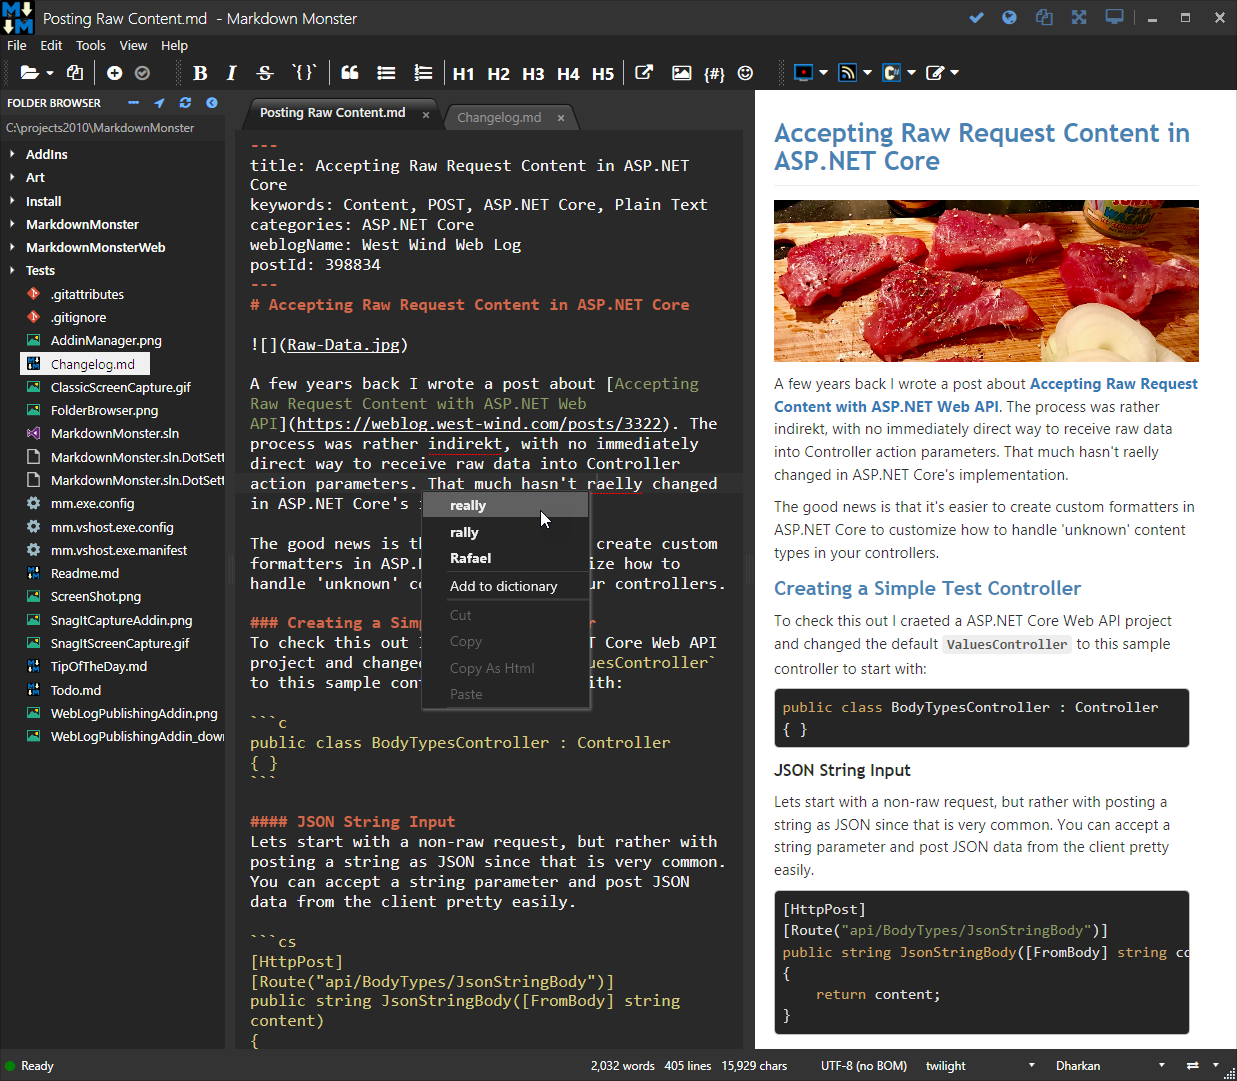
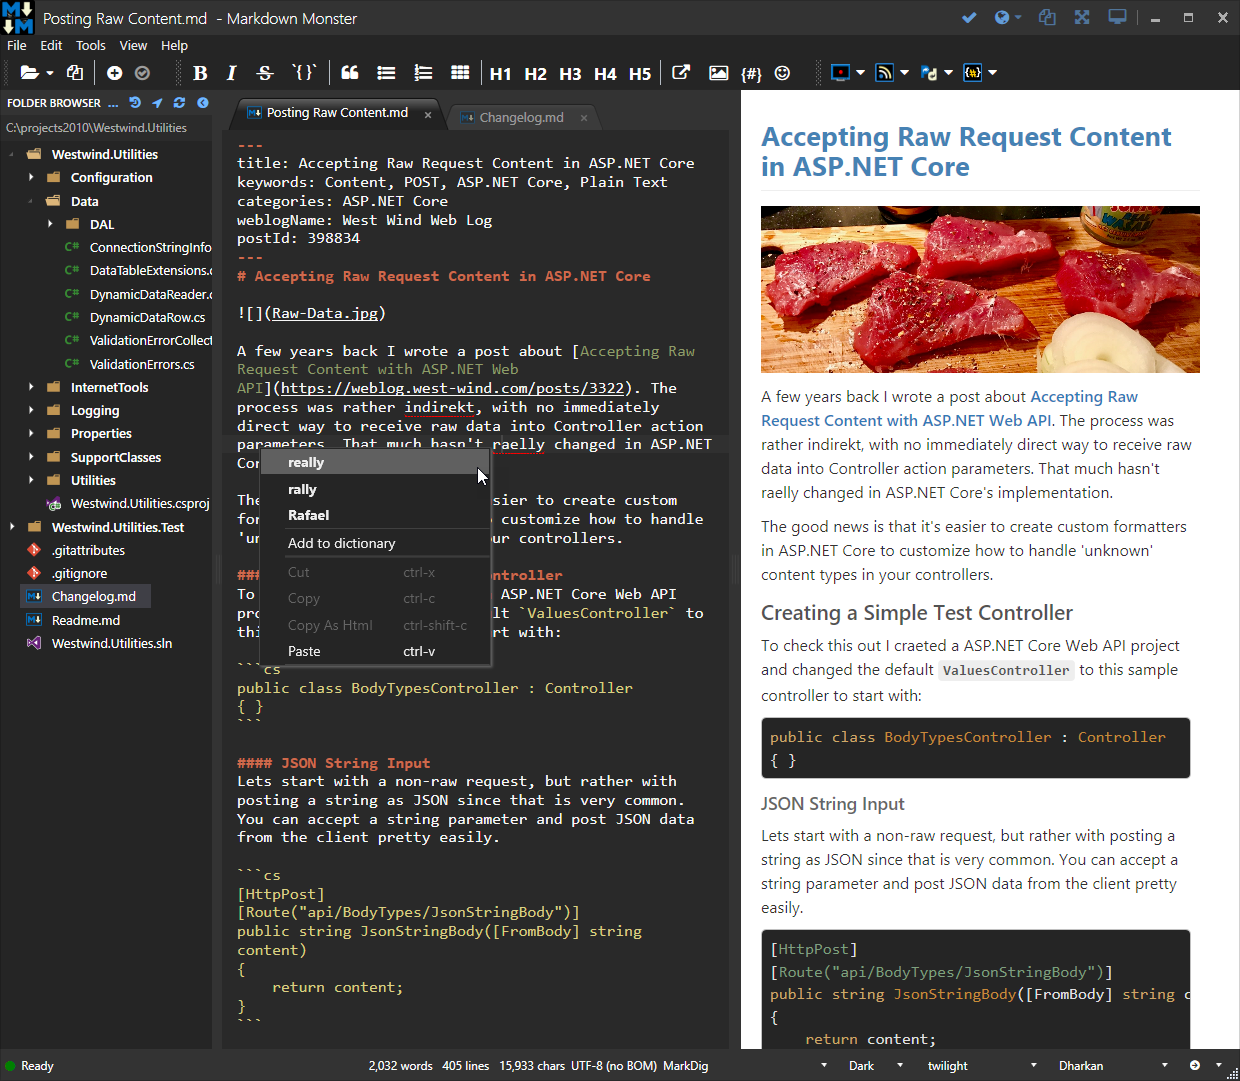
Fix tab styling. Fix Untitled document tab preview Fix extra lines in Editor context menu

Changed region(s): [[0.0, 0.0611, 0.983, 1.0], [0.0614, 0.0, 0.2765, 0.0611], [0.768, 0.0, 0.8294, 0.0305]]

diff --git a/MarkdownMonster/Styles/DragablzGeneric.xaml b/MarkdownMonster/Styles/DragablzGeneric.xaml
@@ -1111,7 +1111,11 @@
                                     <ColumnDefinition Width="Auto" />
                                 </Grid.ColumnDefinitions>
                                 <ContentPresenter Content="{TemplateBinding ContentControl.Content}" 
-                                                  ContentTemplate="{TemplateBinding ContentControl.ContentTemplate}" ContentStringFormat="{TemplateBinding ContentControl.ContentStringFormat}" HorizontalAlignment="{TemplateBinding Control.HorizontalContentAlignment}" VerticalAlignment="{TemplateBinding Control.VerticalContentAlignment}" SnapsToDevicePixels="{TemplateBinding UIElement.SnapsToDevicePixels}"                                                  
+                                                  ContentTemplate="{TemplateBinding ContentControl.ContentTemplate}" 
+                                                  ContentStringFormat="{TemplateBinding ContentControl.ContentStringFormat}" 
+                                                  HorizontalAlignment="{TemplateBinding Control.HorizontalContentAlignment}" 
+                                                  VerticalAlignment="{TemplateBinding Control.VerticalContentAlignment}" 
+                                                  SnapsToDevicePixels="{TemplateBinding UIElement.SnapsToDevicePixels}"                                                  
                                                   Margin="{TemplateBinding Control.Padding}"
                                                   x:Name="contentPresenter" />
                                 <Thumb Grid.Column="0" HorizontalAlignment="Stretch" VerticalContentAlignment="Stretch" 
@@ -1148,6 +1152,9 @@
                              <Setter Property="Padding" Value="5,2,10,8"/>
                             <Setter Property="Margin" Value="0 0 0 0"/>
                             <Setter Property="LongBasePenBrush" Value="{StaticResource TabItem.Selected.Background}" TargetName="Trapezoid"/>
+                        </Trigger>
+                        <Trigger Property="IsSelected" Value="False">
+                            <Setter Property="Opacity" Value="0.5" />
                         </Trigger>
                     </ControlTemplate.Triggers>
                 </ControlTemplate>

diff --git a/MarkdownMonster/Styles/DragablzGenericLight.xaml b/MarkdownMonster/Styles/DragablzGenericLight.xaml
@@ -301,6 +301,7 @@
                             <Setter Property="BorderBrush" TargetName="border" Value="{StaticResource Button.Disabled.Border}"/>
                             <Setter Property="TextElement.Foreground" TargetName="contentPresenter" Value="{StaticResource Button.Disabled.Foreground}"/>
                         </Trigger>
+                        
                     </ControlTemplate.Triggers>
                 </ControlTemplate>
             </Setter.Value>
@@ -1146,6 +1147,9 @@
                             <Setter Property="Padding" Value="5,4,10,5"/>
                             <Setter Property="Margin" Value="0 0 0 0"/>
                             <Setter Property="LongBasePenBrush" Value="{StaticResource TabItem.Selected.Background}" TargetName="Trapezoid"/>
+                        </Trigger>
+                        <Trigger Property="IsSelected" Value="False">
+                            <Setter Property="Opacity" Value="0.6" />
                         </Trigger>
                     </ControlTemplate.Triggers>
                 </ControlTemplate>

diff --git a/MarkdownMonster/_Classes/Utilities/AssociatedIcons.cs b/MarkdownMonster/_Classes/Utilities/AssociatedIcons.cs
@@ -48,7 +48,7 @@ namespace MarkdownMonster.Utilities
 
             if (Icons.TryGetValue(justFile.ToLower(), out ImageSource icon))
                 return icon;
-            if (IconUtilities.ExtensionToImageMappings.TryGetValue(justFile, out string imageKey))
+            if (IconUtilities.ExtensionToImageMappings.TryGetValue(justFile.ToLower(), out string imageKey))
                 key = justFile.ToLower();
             else
             {
@@ -120,6 +120,7 @@ namespace MarkdownMonster.Utilities
             { "favicon.ico", "favicon" },
             { "folder.folder", "folder" }, // special case
             { "folder.openfolder", "folder-open" }, // special case
+            { "untitled","md" },
             
             // dev config files
             { "license","license" },
@@ -130,6 +131,7 @@ namespace MarkdownMonster.Utilities
             { ".editorconfig", "editorconfig" },
 
             // Common
+            
             { ".md", "md" },
             { ".markdown", "md" },
             { ".mdcrypt", "md" },
@@ -254,7 +256,7 @@ namespace MarkdownMonster.Utilities
             { ".bat", "bat" },
             { ".cmd", "bat" },
             { ".sh", "bat" },
-            { ".zip", ".zip" }
+            { ".zip", "zip" }
 
         };
     }

diff --git a/MarkdownMonster/MainWindow.xaml.cs b/MarkdownMonster/MainWindow.xaml.cs
@@ -979,18 +979,15 @@ namespace MarkdownMonster
 			    var img = new Image()
 			    {
 			        Source = FolderStructure.icons.GetIconFromFile(document.Filename),
-                    Height=15,
-                    Margin = new Thickness(0,0,5,0)
+                    Height=16,
+                    Margin = new Thickness(0,1,5,0)
 
 			    };
 			    img.SetValue(Grid.ColumnProperty, 0);
 			    grid.Children.Add(img);
 
 
-			    var textBlock = new TextBlock()
-			    {
-			        Height = 17,
-			    };
+			    var textBlock = new TextBlock();
 			    textBlock.SetValue(Grid.ColumnProperty, 1);
 
                 var headerBinding = new Binding

diff --git a/MarkdownMonster/Controls/EditorContextMenu.cs b/MarkdownMonster/Controls/EditorContextMenu.cs
@@ -176,12 +176,14 @@ namespace MarkdownMonster
             if (pos.row == -1)
                 return;
 
+            var contextCount = ContextMenu.Items.Count;
+
             CheckForImageLink(lineText, pos);
             CheckForHyperLink(lineText, pos);
             CheckForTable(lineText, pos);
 
 
-            if (ContextMenu.Items.Count > 0)
+            if (ContextMenu.Items.Count > contextCount)
                 ContextMenu.Items.Add(new Separator());
 
         }

diff --git a/Readme.md b/Readme.md
@@ -26,9 +26,15 @@ If you like what you see please consider :star: **starring this repo** (top righ
 > ### Please report any Issues you run into
 > If you run into a problem with Markdown Monster, please let us know by [filing an issue](https://github.com/rickstrahl/MarkdownMonster/issues) or feature request here on GitHub. We want to know what doesn't work and get it fixed. **Help us make Markdown Monster better**!
 
-Here's what Markdown Monster looks like:
+Here's what Markdown Monster looks like using the default **Dark Theme**:
 
 ![Markdown Monster Screen Shot](ScreenShot.png)
+
+and here is the **Light Theme**:
+
+![Markdown Monster Screen Shot](ScreenShot_Light.png)
+
+> In addition you can customize both the editor and preview themes individually. The screen shots above use different editor and preview themes for example. 
 
 ## Features
 Markdown Monster provides many useful features:

diff --git a/Changelog.md b/Changelog.md
@@ -8,7 +8,10 @@
 *<small>not released yet</small>*
 
 * **Add Recent Folder List in Folder Browser**   
-The folder browser now has an icon to show and re-select recently opened folders.
+The folder browser now has an icon to show and re-select recently opened folders. Recent folders are also shown on the Recent Files drop down.
+
+* **File Tab Icons**  
+Added icons to the tabs for each of the open files in the editor.
 
 * **Fix Shift-Delete Behavior**   
 Fix additional issue with `Shift-Del` operation when text is selected which now properly **cuts** selected text to the clipboard. Previous behavior just removed the selection.
